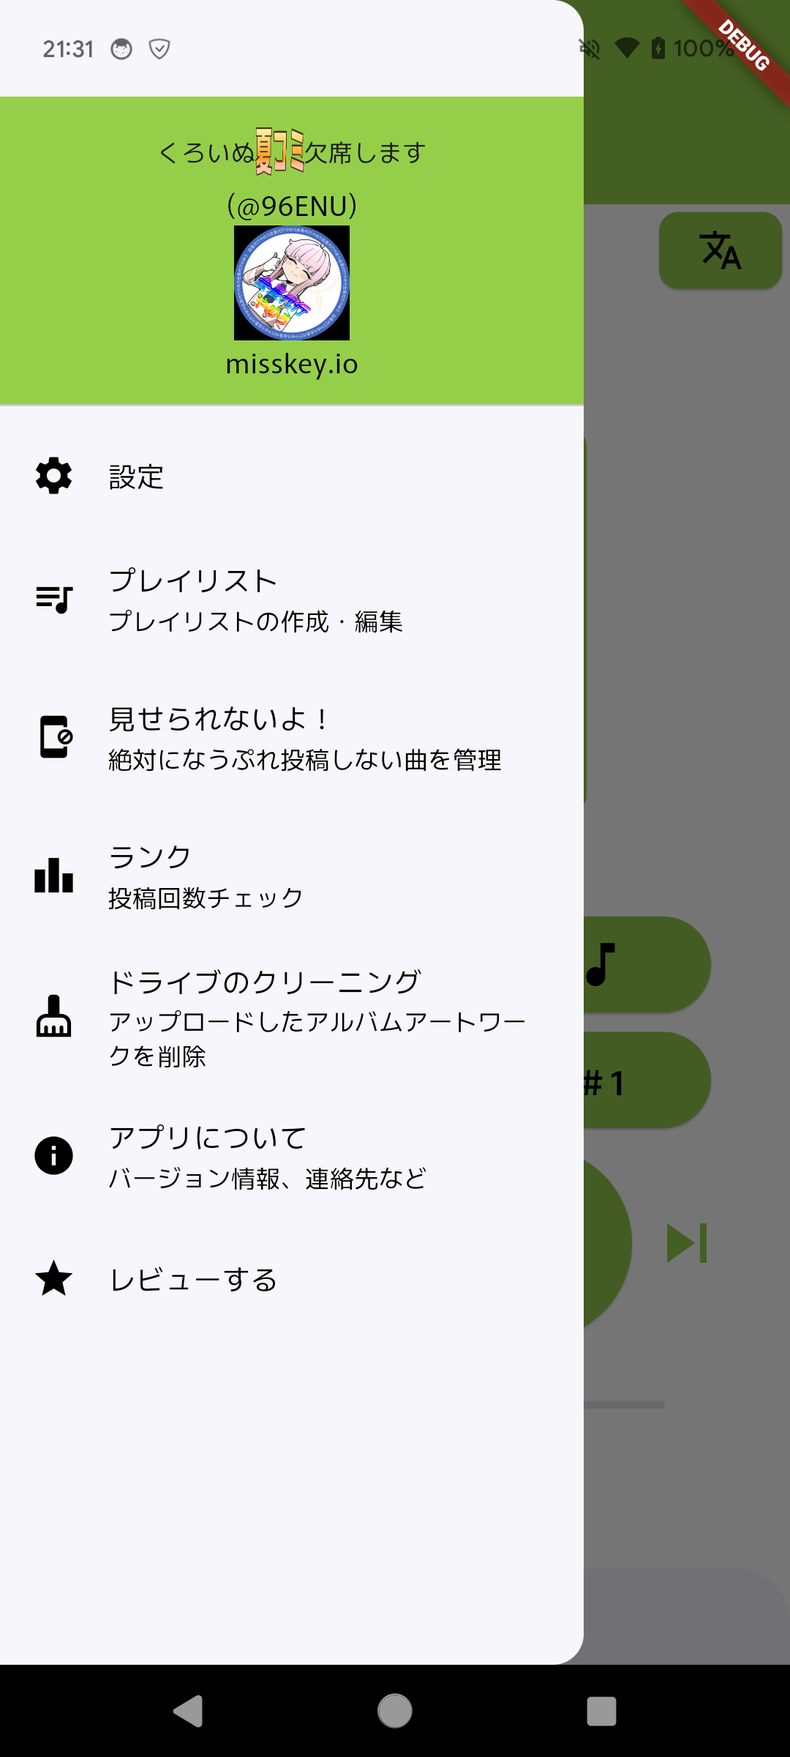
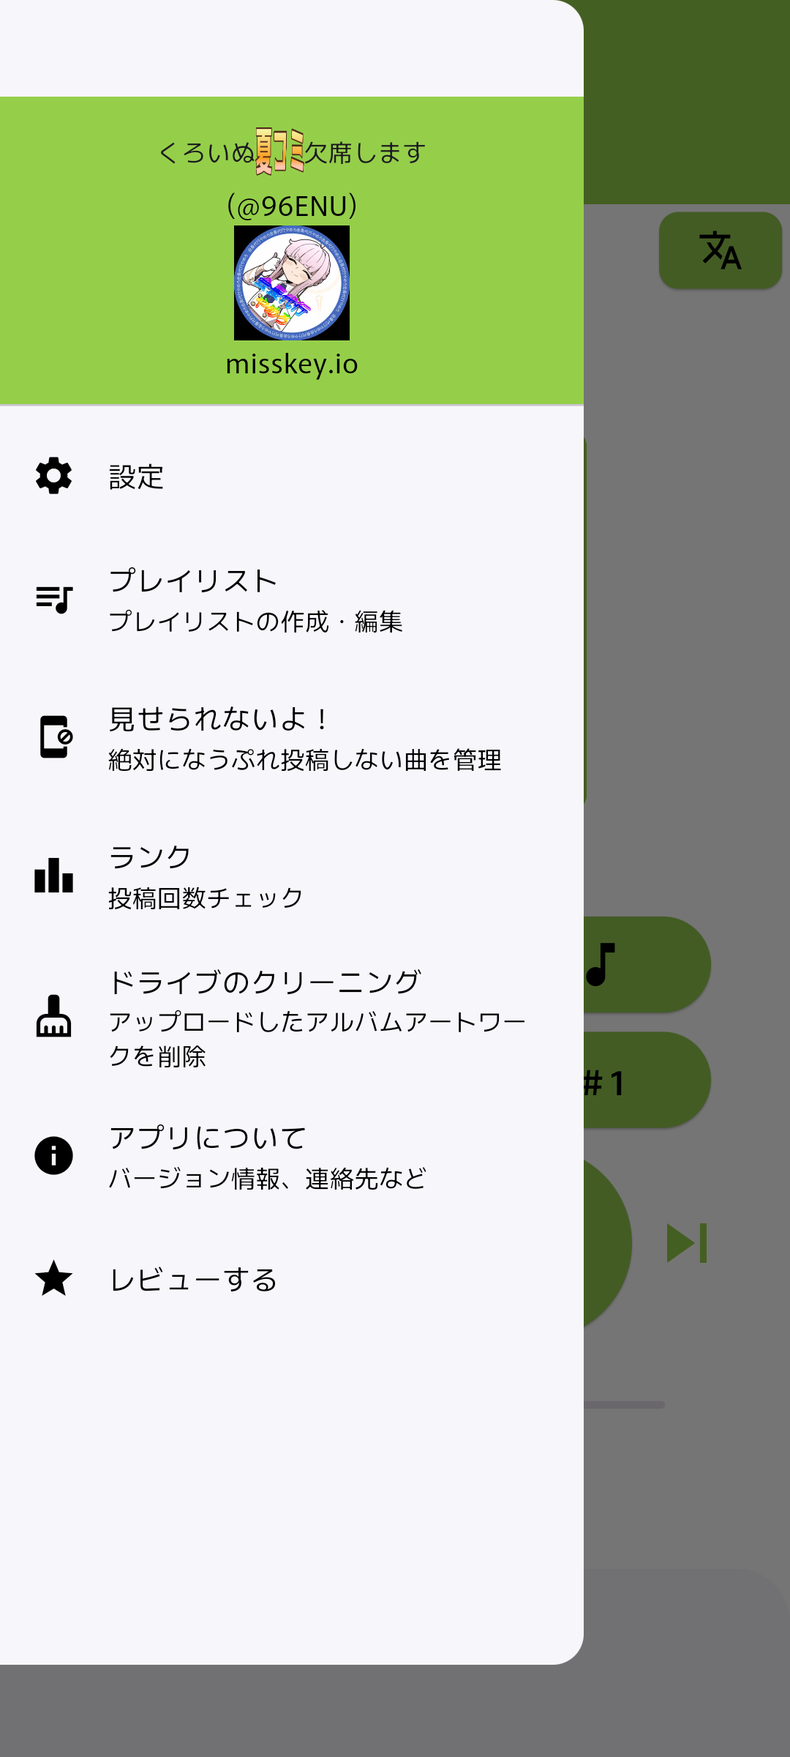
一部のキャプチャをスマートフォンの枠付きに変更しました。

diff --git a/docs/guide-nowplaying.html b/docs/guide-nowplaying.html
@@ -52,7 +52,7 @@
     <div class="contentsbody">
         <h1>なうぷれ投稿について</h1>
         <ol>
-            <li><span class="hover-text" data-image="images/display-main_framed.png"></span>のハンバーガーメニュー<span
+            <li><span class="hover-text" data-image="images/display-main.png"></span>のハンバーガーメニュー<span
                     class="button-like-text"><span class="material-icons"
                         style="font-size: 1.2em; vertical-align: middle;">menu</span></span>を押下してドロワーを表示し、<span
                     class="button-like-text">設定</span>を押下してください。</li>
@@ -66,13 +66,13 @@
         <ul>
             <li><span class="button-like-text">なうぷれ投稿する</span>をオンにすると、音楽再生時になうぷれ投稿されるようになります。</li>
             <div class="screenshots">
-                <a href="./images/nowplaying1.png" data-lightbox="misskey-group"><img src="./images/nowplaying1.png"
-                        alt="" width="35%"></a>
+                <a href="./images/nowplaying1_framed.png" data-lightbox="misskey-group"><img
+                        src="./images/nowplaying1_framed.png" alt="" width="35%"></a>
             </div>
             <li>Misskeyへの投稿に必要なアクセストークンが発行されていない場合、以下のようなダイアログが表示されます。</li>
             <div class="screenshots">
-                <a href="./images/nowplaying2.png" data-lightbox="misskey-group"><img src="./images/nowplaying2.png"
-                        alt="" width="35%"></a>
+                <a href="./images/nowplaying2_framed.png" data-lightbox="misskey-group"><img
+                        src="./images/nowplaying2_framed.png" alt="" width="35%"></a>
             </div>
             <li><span class="button-like-text">OK</span>を押下すると、<a href="./misskey-setting.html">Misskeyとの連携</a>に進みます。
             </li>
@@ -82,10 +82,10 @@
             <li><span class="hover-text" data-image="images/display-setting.png"></span>の「なうぷれ設定」の<span
                     class="button-like-text">詳細</span>を押下して、詳細設定を展開して下さい。</li>
             <div class="screenshots">
-                <a href="./images/nowplaying3.png" data-lightbox="misskey-group"><img src="./images/nowplaying3.png"
-                        alt="" width="35%"></a>
-                <a href="./images/nowplaying4.png" data-lightbox="misskey-group"><img src="./images/nowplaying4.png"
-                        alt="" width="35%"></a>
+                <a href="./images/nowplaying3_framed.png" data-lightbox="misskey-group"><img
+                        src="./images/nowplaying3_framed.png" alt="" width="35%"></a>
+                <a href="./images/nowplaying4_framed.png" data-lightbox="misskey-group"><img
+                        src="./images/nowplaying4_framed.png" alt="" width="35%"></a>
                 <p>なうぷれ詳細設定<code id="version"></code></p>
             </div>
             <li>公開範囲のドロップダウンで、以下のいずれかからなうぷれ投稿を選択できます。</li>
@@ -108,23 +108,23 @@
                 </tr>
             </table>
             <div class="screenshots">
-                <a href="./images/nowplaying5.png" data-lightbox="misskey-group"><img src="./images/nowplaying5.png"
-                        alt="" width="35%"></a>
+                <a href="./images/nowplaying5_framed.png" data-lightbox="misskey-group"><img
+                        src="./images/nowplaying5_framed.png" alt="" width="35%"></a>
                 <p>ドロップダウン一覧<code id="version"></code></p>
             </div>
             <li>ドロップダウンで<span class="button-like-text">チャンネル</span>を選択すると、ドロップダウンの下に<span
                     class="button-like-text">チャンネルを選択</span>ボタンが表示されます。</li>
             <div class="screenshots">
-                <a href="./images/nowplaying6.png" data-lightbox="misskey-group"><img src="./images/nowplaying6.png"
-                        alt="" width="35%"></a>
+                <a href="./images/nowplaying6_framed.png" data-lightbox="misskey-group"><img
+                        src="./images/nowplaying6_framed.png" alt="" width="35%"></a>
             </div>
             <li><span class="button-like-text">チャンネルを選択</span>ボタンを押下すると、チャンネル選択画面に移動します。</li>
             <li>チャンネル名またはチャンネルIDを検索欄に入力すると、候補が表示されます。</li>
             <div class="screenshots">
-                <a href="./images/nowplaying7.png" data-lightbox="misskey-group"><img src="./images/nowplaying7.png"
-                        alt="" width="35%"></a>
-                <a href="./images/nowplaying8.png" data-lightbox="misskey-group"><img src="./images/nowplaying8.png"
-                        alt="" width="35%"></a>
+                <a href="./images/nowplaying7_framed.png" data-lightbox="misskey-group"><img
+                        src="./images/nowplaying7_framed.png" alt="" width="35%"></a>
+                <a href="./images/nowplaying8_framed.png" data-lightbox="misskey-group"><img
+                        src="./images/nowplaying8_framed.png" alt="" width="35%"></a>
             </div>
             <li>表示されたチャンネル名を押下すると、投稿先として選択できます。</li>
         </ol>
@@ -133,10 +133,10 @@
             <li><span class="hover-text" data-image="images/display-setting.png"></span>の「なうぷれ設定」の<span
                     class="button-like-text">詳細</span>を押下して、詳細設定を展開して下さい。</li>
             <div class="screenshots">
-                <a href="./images/nowplaying9.png" data-lightbox="misskey-group"><img src="./images/nowplaying9.png"
-                        alt="" width="35%"></a>
-                <a href="./images/nowplaying10.png" data-lightbox="misskey-group"><img src="./images/nowplaying10.png"
-                        alt="" width="35%"></a>
+                <a href="./images/nowplaying9_framed.png" data-lightbox="misskey-group"><img
+                        src="./images/nowplaying9_framed.png" alt="" width="35%"></a>
+                <a href="./images/nowplaying10_framed.png" data-lightbox="misskey-group"><img
+                        src="./images/nowplaying10_framed.png" alt="" width="35%"></a>
                 <p>なうぷれ詳細設定<code id="version"></code></p>
             </div>
             <li>アルバムアートのドロップダウンで、以下のいずれかから添付モードを選択できます。</li>
@@ -146,8 +146,8 @@
                 <li>モバイル通信でも添付する</li>
             </ul>
             <div class="screenshots">
-                <a href="./images/nowplaying11.png" data-lightbox="misskey-group"><img src="./images/nowplaying11.png"
-                        alt="" width="35%"></a>
+                <a href="./images/nowplaying11_framed.png" data-lightbox="misskey-group"><img
+                        src="./images/nowplaying11_framed.png" alt="" width="35%"></a>
                 <p>ドロップダウン一覧<code id="version"></code></p>
             </div>
             <li>添付可能なアルバムアートが音楽ファイルに埋め込まれていない場合、以下の代替イラストを投稿します。</li>
@@ -161,10 +161,10 @@
             <li><span class="hover-text" data-image="images/display-setting.png"></span>の「なうぷれ設定」の<span
                     class="button-like-text">詳細</span>を押下して、詳細設定を展開して下さい。</li>
             <div class="screenshots">
-                <a href="./images/nowplaying9.png" data-lightbox="misskey-group"><img src="./images/nowplaying9.png"
-                        alt="" width="35%"></a>
-                <a href="./images/nowplaying10.png" data-lightbox="misskey-group"><img src="./images/nowplaying10.png"
-                        alt="" width="35%"></a>
+                <a href="./images/nowplaying9_framed.png" data-lightbox="misskey-group"><img
+                        src="./images/nowplaying9_framed.png" alt="" width="35%"></a>
+                <a href="./images/nowplaying10_framed.png" data-lightbox="misskey-group"><img
+                        src="./images/nowplaying10_framed.png" alt="" width="35%"></a>
                 <p>なうぷれ詳細設定<code id="version"></code></p>
             </div>
             <li>投稿文パターンのドロップダウンで以下のいずれかから投稿文を選択することができます。</li>

diff --git a/docs/version-history.html b/docs/version-history.html
@@ -336,7 +336,7 @@
                 <hr class="change">
                 <ul>
                     <li><span class="hover-text"
-                            data-image="images/display-main_framed.png"></span>で以下のテキストが画面からはみ出る場合のみ、スクロールするように変更しました。</li>
+                            data-image="images/display-main.png"></span>で以下のテキストが画面からはみ出る場合のみ、スクロールするように変更しました。</li>
                     <ul>
                         <li>曲名</li>
                         <li>アーティスト名</li>
@@ -345,7 +345,7 @@
                     <li><span class="hover-text"
                             data-image="images/display-setting.png"></span>の接続サーバー名をコード風テキストに変更しました。</li>
                     <li><span class="hover-text"
-                            data-image="images/display-main_framed.png"></span>のプレイリスト選択ダイアログの最下部に表示されるボタンのテキストを変更しました。</li>
+                            data-image="images/display-main.png"></span>のプレイリスト選択ダイアログの最下部に表示されるボタンのテキストを変更しました。</li>
                     <table class="table-design">
                         <tbody>
                             <tr>
@@ -377,7 +377,7 @@
                 <hr class="new">
                 <ul>
                     <li><span class="hover-text"
-                            data-image="images/display-main_framed.png"></span>にストリーミングサービスで再生中の曲を強制的になうぷれ投稿するためのボタン<span
+                            data-image="images/display-main.png"></span>にストリーミングサービスで再生中の曲を強制的になうぷれ投稿するためのボタン<span
                             class="button-like-text"><span class="material-icons"
                                 style="font-size: 1.2em; vertical-align: middle;">send</span></span>を追加しました。
                     </li>
@@ -836,7 +836,7 @@
                         <li>設定画面の<span class="button-like-text">なうぷれ設定</span>→<span
                                 class="button-like-text">投稿文パターン</span>で「カスタム」を選択する</li>
                         <li>設定画面からメイン画面に移動する</li>
-                        <li><span class="hover-text" data-image="images/display-main_framed.png"></span>から設定画面に移動する</li>
+                        <li><span class="hover-text" data-image="images/display-main.png"></span>から設定画面に移動する</li>
                     </ol>
                 </ul>
             </div>
@@ -868,9 +868,9 @@
                 <div class="table-container" data-release-date="20240807" data-install-size="17.2[MB]"></div>
                 <hr class="new">
                 <ul>
-                    <li><span class="hover-text" data-image="images/display-main_framed.png"></span>の<span class="hover-text"
+                    <li><span class="hover-text" data-image="images/display-main.png"></span>の<span class="hover-text"
                             data-image="images/display-drawer.png"></span>に、アプリへのレビューを送信する機能を追加しました。</li>
-                    <li><span class="hover-text" data-image="images/display-main_framed.png">ホーム画面</span>の<span
+                    <li><span class="hover-text" data-image="images/display-main.png">ホーム画面</span>の<span
                             class="hover-text"
                             data-image="images/display-drawer.png"></span>から、感想用Googleフォームへのリンクを削除しました。</li>
                 </ul>
@@ -983,7 +983,7 @@
                     <li>インストール後の初回起動時に、マニュアル(本サイト)へ誘導するダイアログを表示する機能を追加しました。</li>
                     <li>以下の操作を行った際に、フィードバック振動を行う機能を追加しました。</li>
                     <ul>
-                        <li><span class="hover-text" data-image="images/display-main_framed.png"></span></li>
+                        <li><span class="hover-text" data-image="images/display-main.png"></span></li>
                         <ul>
                             <li><span class="button-like-text"><span class="material-icons"
                                         style="font-size: 1.2em; vertical-align: middle;">restart_alt</span></span>または<span

diff --git a/docs/guide-playlists.html b/docs/guide-playlists.html
@@ -52,18 +52,19 @@
 
         <h2>プレイリストの作成・編集</h2>
         <ol>
-            <li><span class="hover-text" data-image="images/display-main_framed.png"></span>のハンバーガーメニュー<span
+            <li><span class="hover-text" data-image="images/display-main.png"></span>のハンバーガーメニュー<span
                     class="button-like-text"><span class="material-icons"
-                        style="font-size: 1.2em; vertical-align: middle;">menu</span></span>を表示し、<span
+                        style="font-size: 1.2em; vertical-align: middle;">menu</span></span>を押下して<span
+                    class="hover-text" data-image="images/display-drawer.png"></span>を表示し、<span
                     class="button-like-text">プレイリスト</span>を押下してください。</li>
             <div class="screenshots">
-                <a href="./images/playlist1.png" data-lightbox="misskey-group"><img src="./images/playlist1.png" alt=""
+                <a href="./images/display-drawer_framed.png" data-lightbox="misskey-group"><img src="./images/display-drawer_framed.png" alt=""
                         width="35%"></a>
             </div>
             <div style="padding: 1em;">
                 <div class="box-memo">
                     <p>
-                        <span class="hover-text" data-image="images/display-main_framed.png"></span>の<span
+                        <span class="hover-text" data-image="images/display-main.png"></span>の<span
                             class="button-like-text"><span class="material-icons"
                                 style="font-size: 1.2em; vertical-align: middle;">queue_music</span></span>ボタンを押下して表示されるプレイリスト選択ダイアログの下にある<span
                             class="button-like-text">プレイリストを作成</span>ボタンを押下することでも、プレイリスト一覧画面に移動できます。
@@ -181,7 +182,7 @@
         <h2>プレイリストの再生</h2>
 
         <ol>
-            <li><span class="hover-text" data-image="images/display-main_framed.png"></span>の<span
+            <li><span class="hover-text" data-image="images/display-main.png"></span>の<span
                     class="button-like-text"><span class="material-icons"
                         style="font-size: 1.2em; vertical-align: middle;">queue_music</span></span>ボタンを押下して、プレイリスト選択ダイアログを表示してください。
             </li>

diff --git a/docs/misskey-setting.html b/docs/misskey-setting.html
@@ -75,22 +75,22 @@
             <li><span class="button-like-text">認証する</span>を押下して、アプリへのアクセス許可ページにアクセスしてください。</li>
             <li>「なうぷれ投稿」したいMisskeyアカウントのユーザー名、パスワードを入力してログインを押下してください。</li>
             <div class="screenshots">
-                <a href="./images/misskey3.png" data-lightbox="misskey-group"><img src="./images/misskey3.png" alt=""
+                <a href="./images/misskey3_framed.png" data-lightbox="misskey-group"><img src="./images/misskey3_framed.png" alt=""
                         width="35%"></a>
             </div>
             <li>以下の図のように二要素認証の入力を要求された場合は、こちらの手順で作成した認証コードを入力してログインを押下してください。</li>
             <div class="screenshots">
-                <a href="./images/misskey4.png" data-lightbox="misskey-group"><img src="./images/misskey4.png" alt=""
+                <a href="./images/misskey4_framed.png" data-lightbox="misskey-group"><img src="./images/misskey4_framed.png" alt=""
                         width="35%"></a>
             </div>
             <li>以下の図のようなアクセス許可ページが表示されるので、<span class="button-like-text">許可</span>を押下してください。</li>
             <div class="screenshots">
-                <a href="./images/misskey5.png" data-lightbox="misskey-group"><img src="./images/misskey5.png" alt=""
+                <a href="./images/misskey5_framed.png" data-lightbox="misskey-group"><img src="./images/misskey5_framed.png" alt=""
                         width="35%"></a>
             </div>
             <li>以下の図のような認証完了ページが表示されたら、BaconJamに戻ってください。</li>
             <div class="screenshots">
-                <a href="./images/misskey6.png" data-lightbox="misskey-group"><img src="./images/misskey6.png" alt=""
+                <a href="./images/misskey6_framed.png" data-lightbox="misskey-group"><img src="./images/misskey6_framed.png" alt=""
                         width="35%"></a>
             </div>
             <li>連携に成功している場合以下の図のようなダイアログが表示されます。</li>

diff --git a/docs/guide-check-current-version.html b/docs/guide-check-current-version.html
@@ -51,13 +51,13 @@
                         style="font-size: 1.2em; vertical-align: middle;">menu</span></span>を押下してドロワーを表示し、<span
                     class="button-like-text">アプリについて</span>を押下してください。</li>
             <div class="screenshots">
-                <a href="./images/current-version1.png" data-lightbox="misskey-group"><img
-                        src="./images/current-version1.png" alt="" width="35%"></a>
+                <a href="./images/display-drawer_framed.png" data-lightbox="misskey-group"><img
+                        src="./images/display-drawer_framed.png" alt="" width="35%"></a>
             </div>
             <li>画面上部に、インストール済バージョンが表示されます。</li>
             <div class="screenshots">
-                <a href="./images/current-version2_framed.png" data-lightbox="misskey-group"><img
-                        src="./images/current-version2_framed.png" alt="" width="35%"></a>
+                <a href="./images/current-version1_framed.png" data-lightbox="misskey-group"><img
+                        src="./images/current-version1_framed.png" alt="" width="35%"></a>
             </div>
             <li><span class="button-like-text">アップデートを確認する</span>を押下すると、<a
                     href="https://play.google.com/store/apps/details?id=com.falhongcha.baconjam&pcampaignid=pcampaignidMKT-Other-global-all-co-prtnr-py-PartBadge-Mar2515-1">Google

diff --git a/docs/guide-drive-cleaning.html b/docs/guide-drive-cleaning.html
@@ -47,14 +47,14 @@
         <h1>🧹ドライブのクリーニング</h1>
 
         <ol>
-            <li><span class="hover-text" data-image="images/display-main_framed.png"></span>のハンバーガーメニュー<span
+            <li><span class="hover-text" data-image="images/display-main.png"></span>のハンバーガーメニュー<span
                     class="button-like-text"><span class="material-icons"
                         style="font-size: 1.2em; vertical-align: middle;">menu</span></span>を押下して<span class="hover-text"
                     data-image="images/display-drawer.png"></span>を表示し、<span
                     class="button-like-text"><span class="material-icons" style="font-size: 1.2em; vertical-align: middle;">cleaning_services</span>ドライブのクリーニング</span>を押下してください。</li>
             <div class="screenshots">
-                <a href="./images/current-version1.png" data-lightbox="misskey-group"><img
-                        src="./images/current-version1.png" alt="" width="35%"></a>
+                <a href="./images/display-drawer_framed.png" data-lightbox="misskey-group"><img
+                        src="./images/display-drawer_framed.png" alt="" width="35%"></a>
             </div>
             <li>表示される確認ダイアログで<span class="button-like-text">OK</span>を押下してください。</li>
             <div class="screenshots">

diff --git a/docs/guide-send-review.html b/docs/guide-send-review.html
@@ -47,14 +47,14 @@
         <h1>📩レビューを送信する</h1>
 
         <ol>
-            <li><span class="hover-text" data-image="images/display-main_framed.png"></span>のハンバーガーメニュー<span
+            <li><span class="hover-text" data-image="images/display-main.png"></span>のハンバーガーメニュー<span
                     class="button-like-text"><span class="material-icons"
                         style="font-size: 1.2em; vertical-align: middle;">menu</span></span>を押下して<span
                     class="hover-text" data-image="images/display-drawer.png"></span>を表示し、<span
                     class="button-like-text"><span class="material-icons"
                         style="font-size: 1.2em; vertical-align: middle;">star</span>レビューする</span>を押下してください。</li>
             <div class="screenshots">
-                <a href="./images/review1.png" data-lightbox="misskey-group"><img src="./images/review1.png" alt=""
+                <a href="./images/display-drawer_framed.png" data-lightbox="misskey-group"><img src="./images/display-drawer_framed.png" alt=""
                         width="35%"></a>
             </div>
             <li><a

diff --git a/docs/displays.html b/docs/displays.html
@@ -54,12 +54,12 @@
                         alt="" width="35%"></a>
             </div>
             <h2>ドロワー</h2>
-            <span class="hover-text" data-image="images/display-main_framed.png"></span>のハンバーガーメニュー<span
+            <span class="hover-text" data-image="images/display-main.png"></span>のハンバーガーメニュー<span
                 class="button-like-text"><span class="material-icons"
                     style="font-size: 1.2em; vertical-align: middle;">menu</span></span>を押下することで表示される画面です。
             <div class="screenshots">
-                <a href="./images/display-drawer.png" data-lightbox="misskey-group"><img
-                        src="./images/display-drawer.png" alt="" width="35%"></a>
+                <a href="./images/display-drawer_framed.png" data-lightbox="misskey-group"><img
+                        src="./images/display-drawer_framed.png" alt="" width="35%"></a>
             </div>
             <h2>設定画面</h2>
             <span class="hover-text" data-image="images/display-drawer.png"></span>の<span

diff --git a/docs/js/generate-text-by-image.js b/docs/js/generate-text-by-image.js
@@ -26,7 +26,7 @@ function updateSpanText() {
             case 'images/display-playlists-1.png':
                 newText = 'プレイリスト一覧画面';
                 break;
-            case 'images/display-main_framed.png':
+            case 'images/display-main.png':
                 newText = 'ホーム画面';
                 break;
             case 'images/display-drawer.png':
